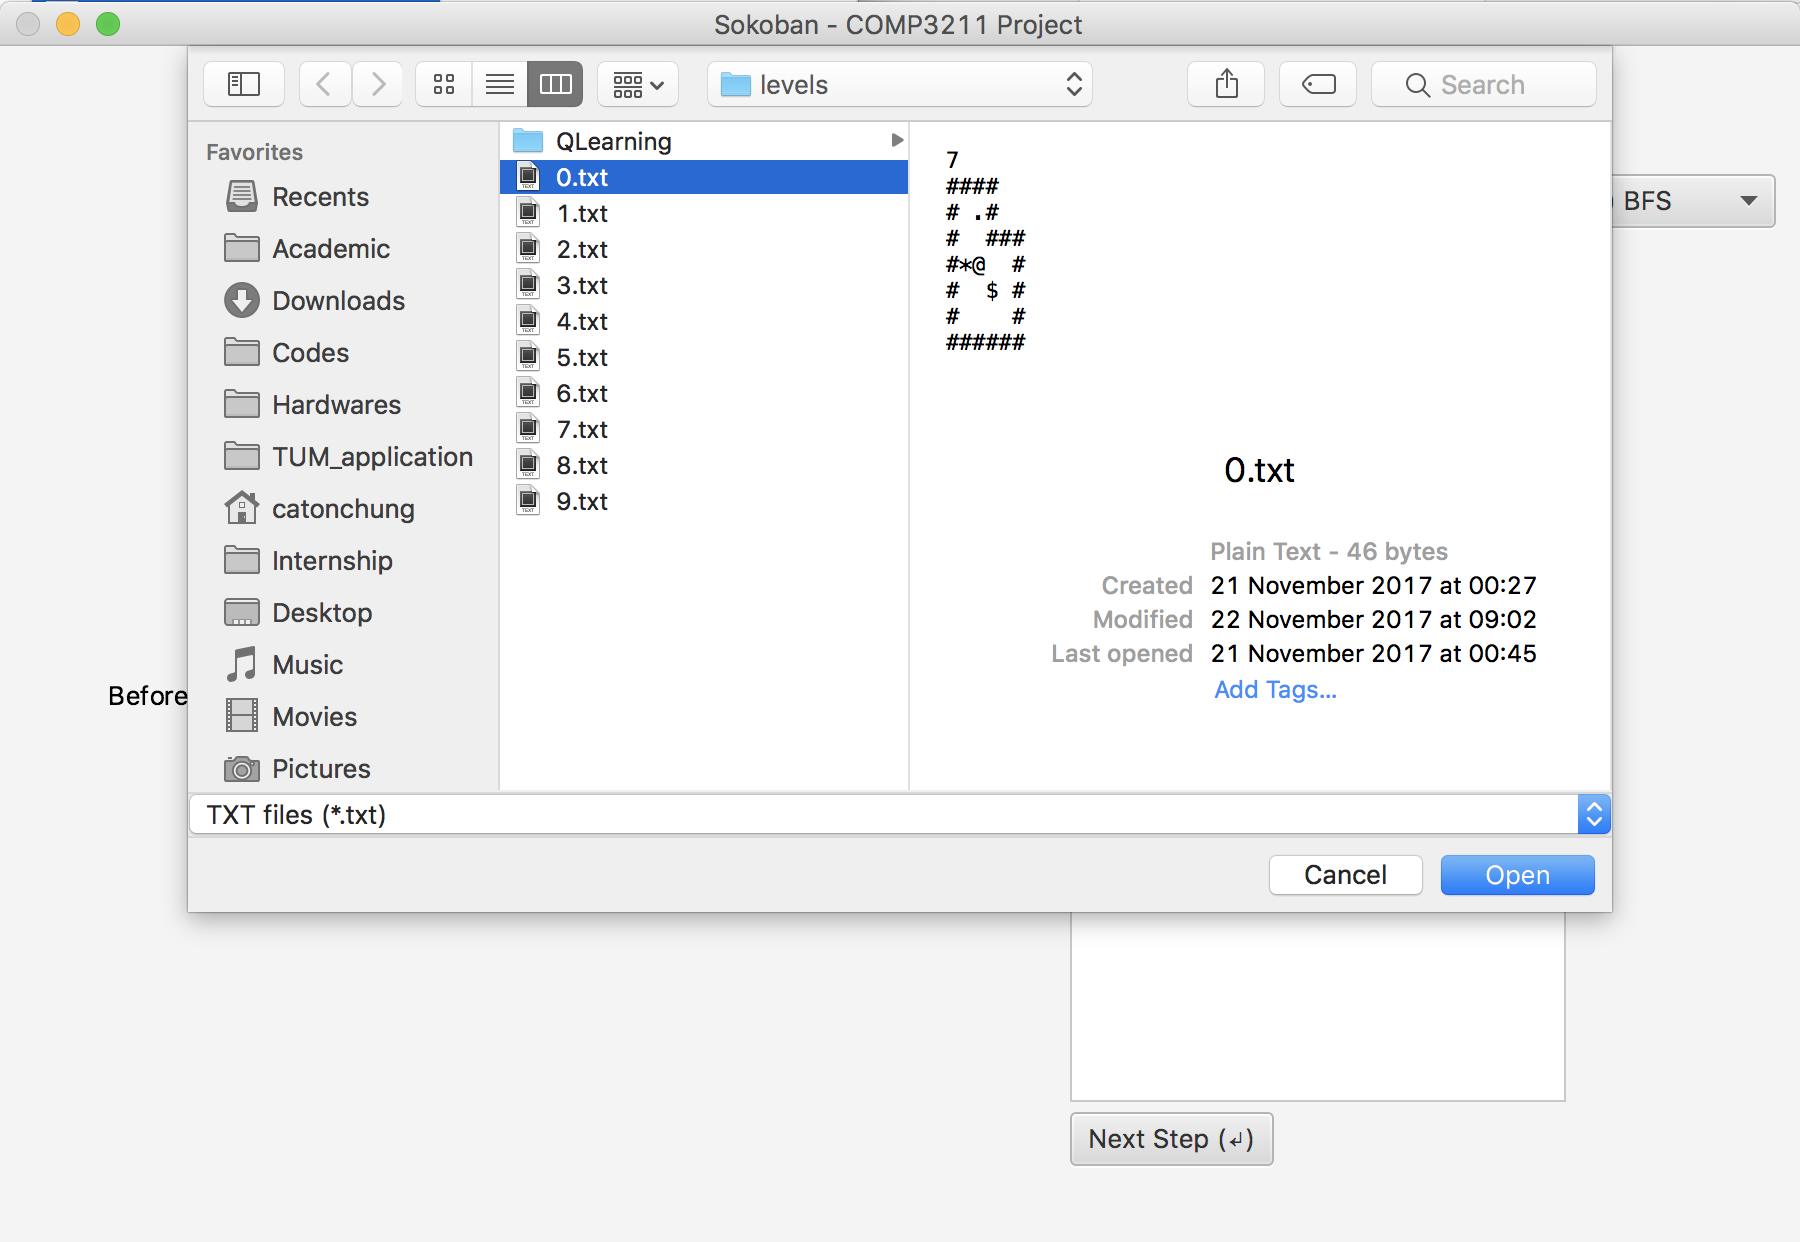
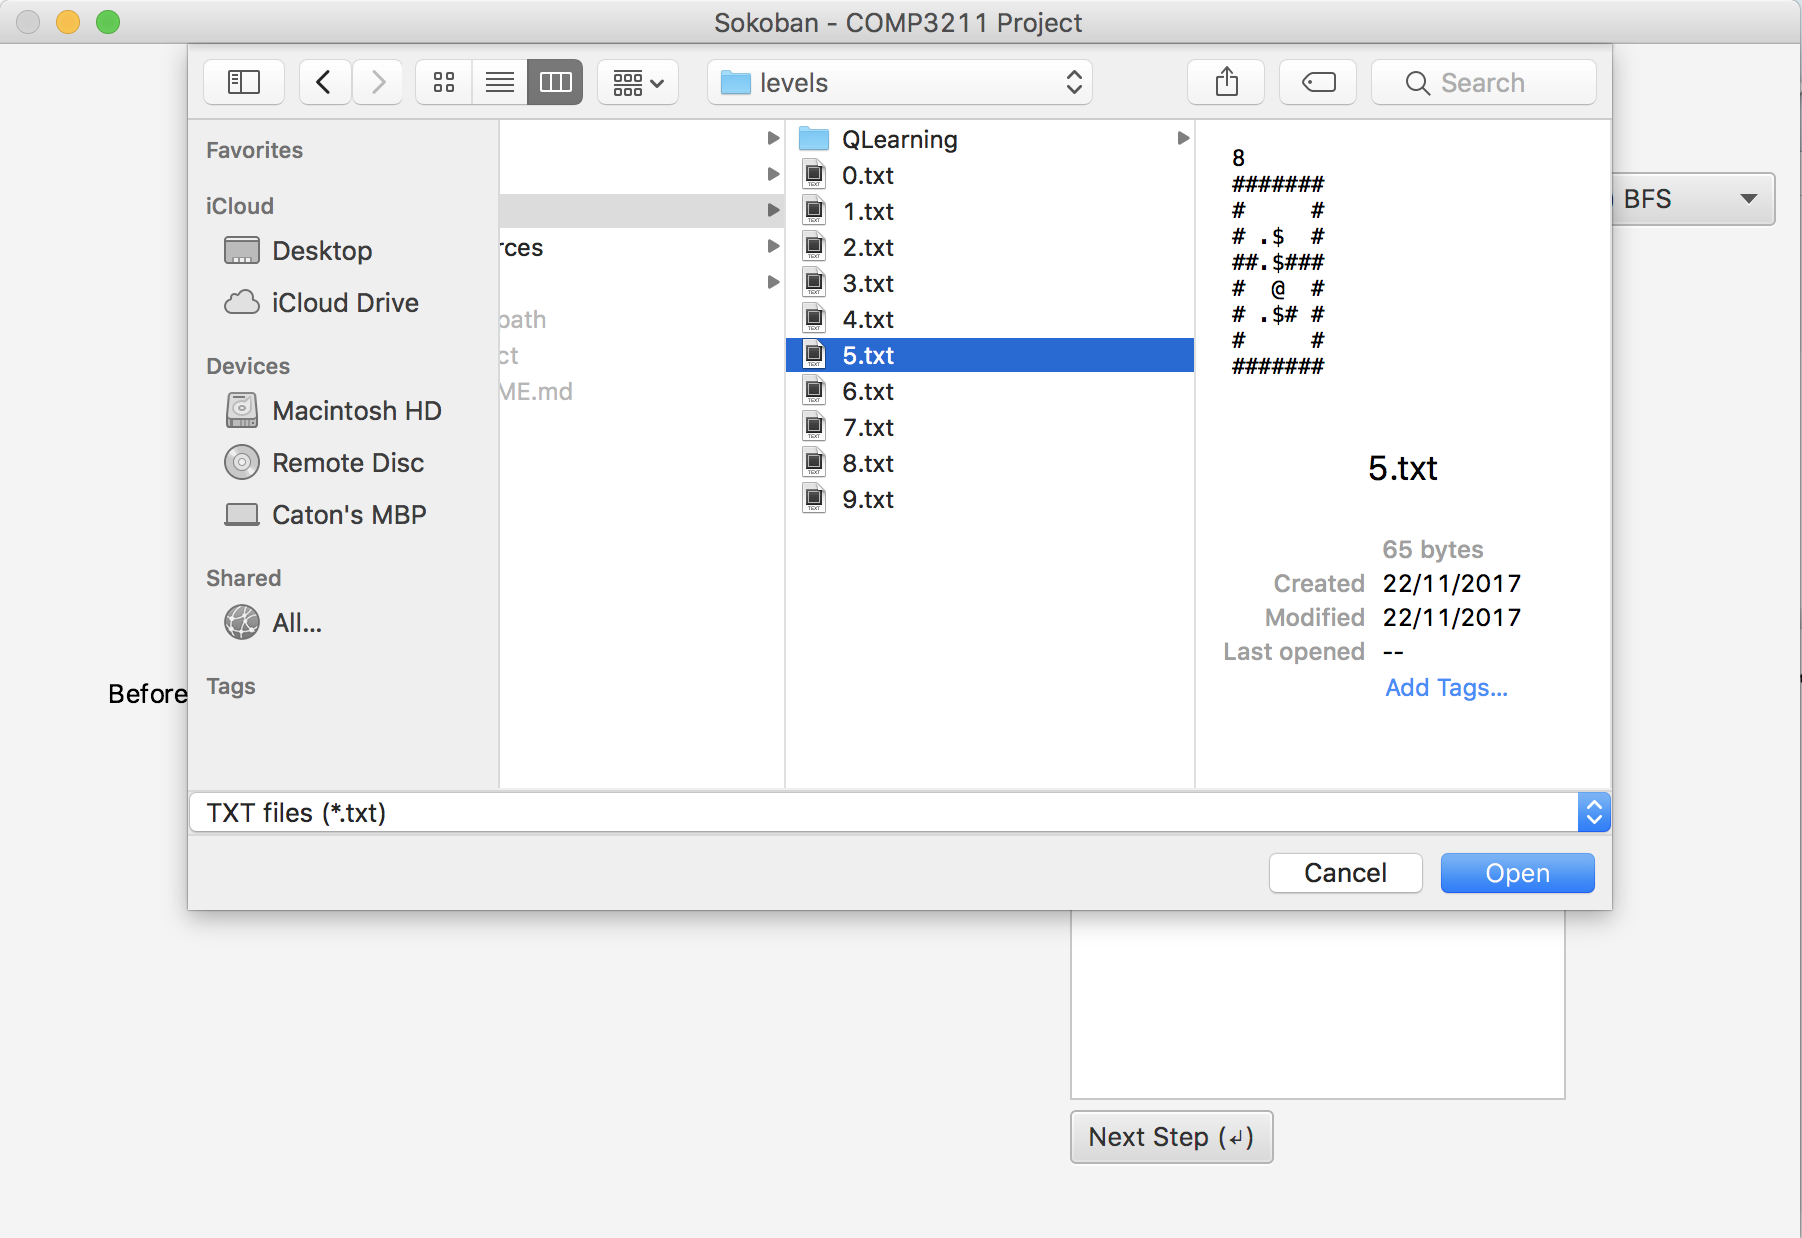
readme

diff --git a/src/GUI.java b/src/GUI.java
@@ -72,7 +72,7 @@ public class GUI extends Application {
 		Button btLoadMap = new Button("Load Map");
 		btLoadMap.setOnAction( e -> handleLoadMap());
 //		text label
-		Text searchTypes = new Text("Specify which search to use [1-7]:");
+		Text searchTypes = new Text("Specify which search to use:");
 //		drop down
 		
 		comboBox.setMaxWidth(100);

diff --git a/README.md b/README.md
@@ -9,7 +9,7 @@
 | WANG, Guanzhi 	|  20329604		|
 | ZHONG, Zixuan	|  20328800		|
 
-## Use
+## Set up
 
 ### 1) clone this project
 
@@ -23,19 +23,50 @@ $ cd AI_Sokoban/bin
 $ java GUI 
 ```
 
-### 3) load a game map
+## Search Algorithms
+
+
+### 1) Load the map
+
+click on the `Load Map` button and choose `/levels/5.txt`.
 
 ![](./resources/screenshot_00.png)
 
 Before the result is computed, you can play the game. (↑ ↓ ← → L)
 
-### 4) compute the result
+### 2) Compute the result
+
+Choose a search algorithm and click on the button `Compute Result`
 
 ![](./resources/screenshot_01.png)
 
-### 5) make the agent move according to the result
+### 3) Move the agent
+
+Keep pressing on the `enter(return)` button to make the agent move according to the result.
 
 ![](./resources/screenshot_02.png)
+
+## Q-Learning
+
+### 1) Load the map
+
+click on the `Load Map` button and choose `/levels/QLearning/1.txt`.
+
+![](./resources/screenshot_03.png)
+
+Before the result is computed, you can play the game. (↑ ↓ ← → L)
+
+### 2) Compute the result
+
+Choose `8) Q-Learning` and click on the button `Compute Result`
+
+![](./resources/screenshot_04.png)
+
+### 3) Move the agent
+
+Keep pressing on the `enter(return)` button to make the agent move according to the result.
+
+![](./resources/screenshot_05.png)
 
 ## Java doc
 
